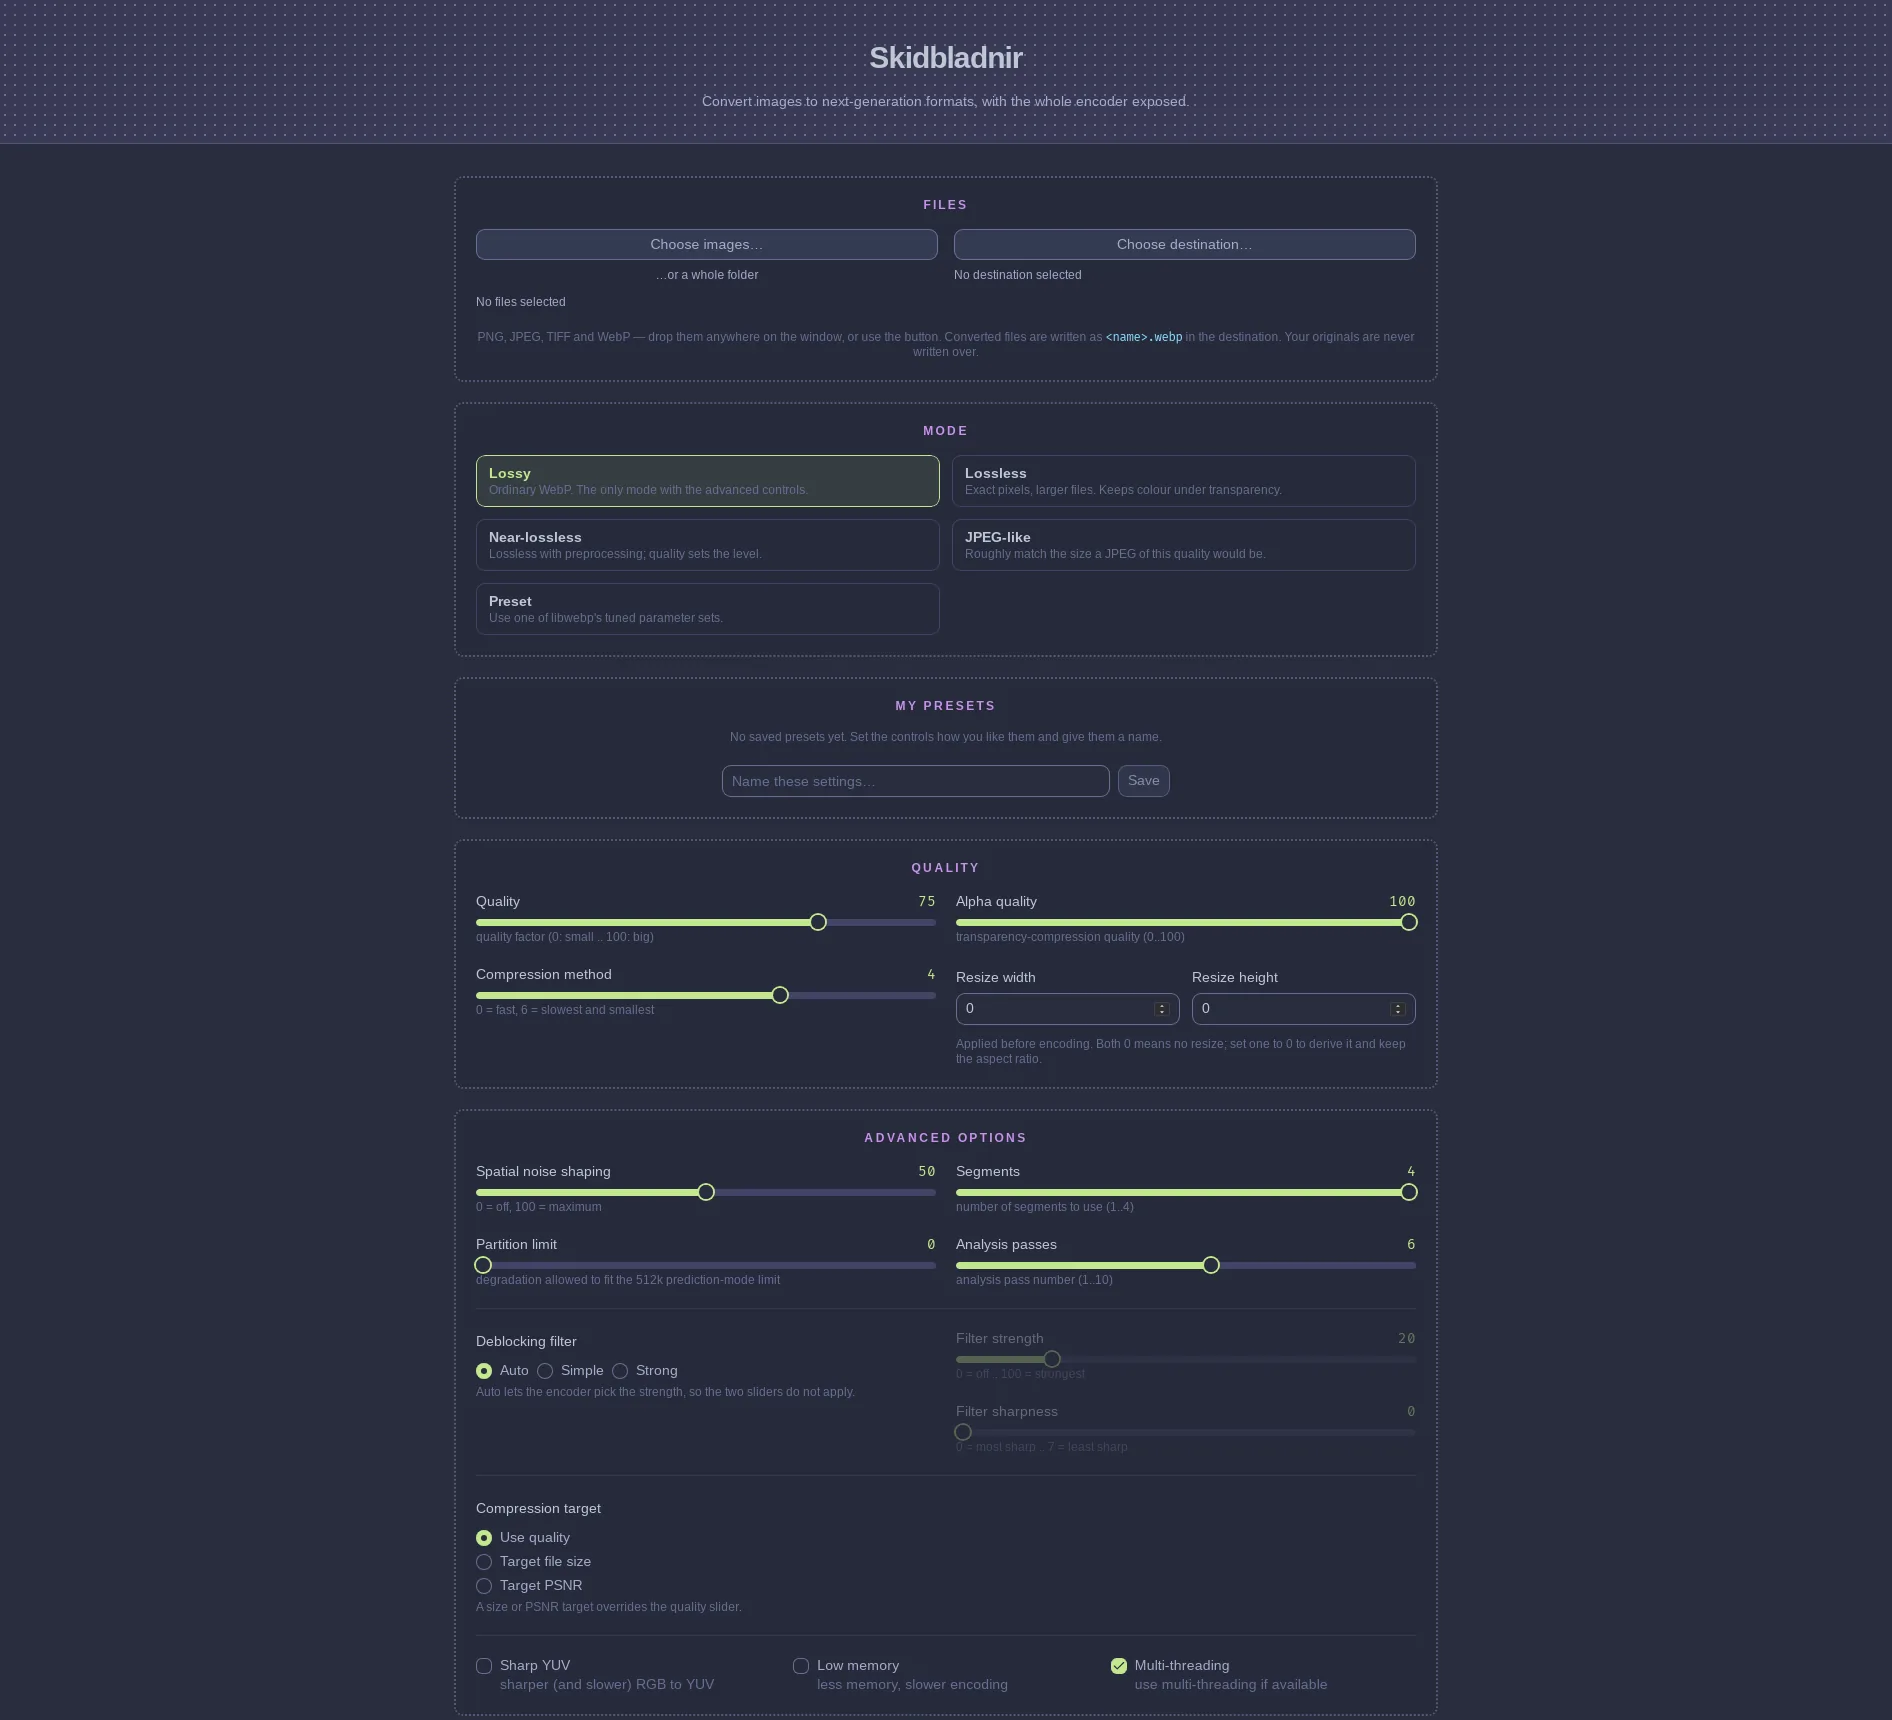
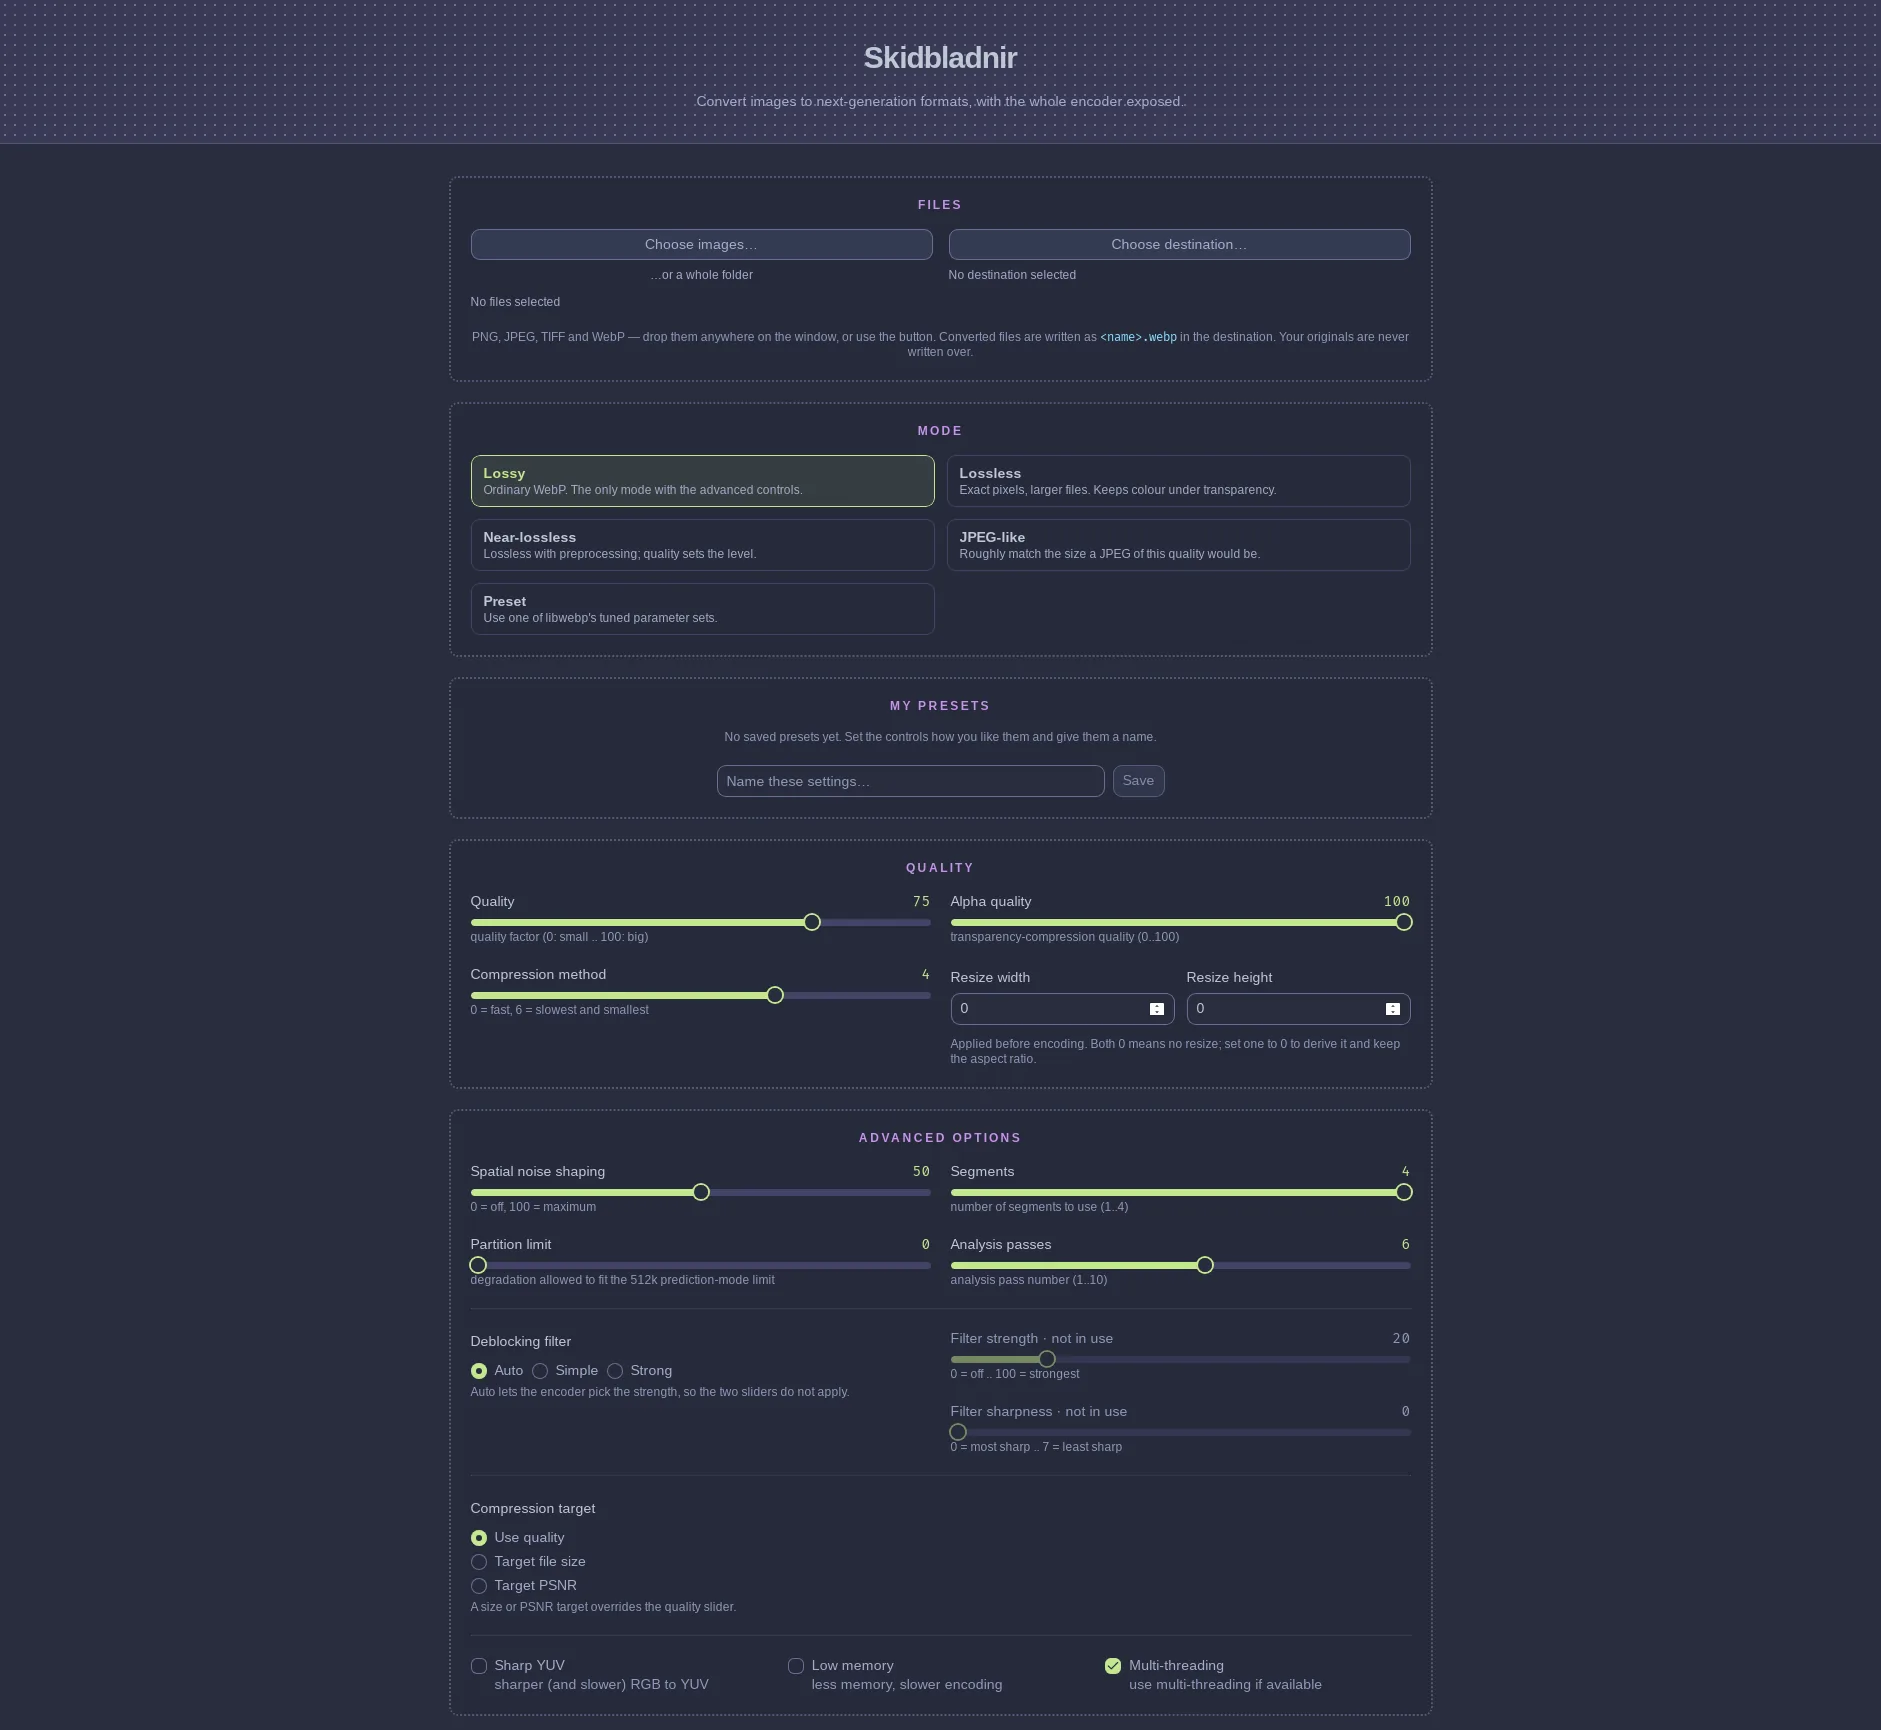
fix: clean accessibility audit — real contrast fixes found by axe-core
scripts/a11y-audit.sh injects axe-core into the live window and reports
violations. The window is now clean at the minor threshold. This found two real
defects the hand-written name check could not see:

- COLOUR CONTRAST on 25 nodes. Palenight's own comment colour #676e95 is 2.76:1
  against the background -- far under WCAG AA's 4.5:1 for text. It is kept for
  borders and the dot texture, and a new --color-palenight-muted (#9099bd,
  4.86:1) carries the muted role for anything a person actually reads. The error
  red was 4.37:1, just under, and is now #ff6b85 at 5.00:1.
- A missing lang attribute on <html>.

Six failures survived the first pass and were worth understanding rather than
waving through:

- Five were the DISABLED filter sliders. opacity-40 on the whole block took their
  labels to 2.6:1 and their help text to 2.0:1 -- unreadable, not merely
  non-conforming. Dimming now applies to the slider track alone and the label
  reads "· not in use", which is both accessible and clearer about why the
  control is inert.
- The sixth was the selected mode card, whose green tint lifts the background to
  #373d42 where the muted token falls to 3.92:1. Its description uses the
  brighter token.

The harness gained --script-file, because injecting axe-core is half a megabyte
and blows the argv limit; the payload is POSTed from a file rather than built as
a shell argument.

The README screenshot was re-captured afterwards, so it shows the corrected
[…]

diff --git a/frontend/pages/index.vue b/frontend/pages/index.vue
@@ -414,7 +414,7 @@ function basename(path: string): string {
 							{{ dropRejected }} dropped {{ dropRejected === 1 ? 'file was' : 'files were' }} not a
 							PNG, JPEG, TIFF or WebP and {{ dropRejected === 1 ? 'was' : 'were' }} skipped.
 						</p>
-						<p class="text-center text-xs text-palenight-comment">
+						<p class="text-center text-xs text-palenight-muted">
 							PNG, JPEG, TIFF and WebP — drop them anywhere on the window, or use the button.
 							Converted files are written as <code class="text-palenight-cyan">&lt;name&gt;.webp</code>
 							in the destination. Your originals are never written over.
@@ -436,7 +436,7 @@ function basename(path: string): string {
 								@click="settings.mode = mode.value"
 							>
 								<span class="block text-sm font-semibold" :class="settings.mode === mode.value ? 'text-palenight-green' : 'text-palenight-bright'">{{ mode.label }}</span>
-								<span class="block text-xs text-palenight-comment">{{ mode.help }}</span>
+								<span class="block text-xs text-palenight-fg">{{ mode.help }}</span>
 							</button>
 						</div>
 
@@ -455,12 +455,12 @@ function basename(path: string): string {
 								<button type="button" class="py-1 text-sm text-palenight-cyan hover:text-palenight-bright" @click="applyPreset(preset)">
 									{{ preset.name }}
 								</button>
-								<button type="button" class="px-2 py-1 text-palenight-comment hover:text-palenight-red" :aria-label="`Delete preset ${preset.name}`" @click="deletePreset(preset.name)">
+								<button type="button" class="px-2 py-1 text-palenight-muted hover:text-palenight-red" :aria-label="`Delete preset ${preset.name}`" @click="deletePreset(preset.name)">
 									<UIcon name="i-lucide-x" class="size-3.5" />
 								</button>
 							</div>
 						</div>
-						<p v-else class="text-center text-xs text-palenight-comment">
+						<p v-else class="text-center text-xs text-palenight-muted">
 							No saved presets yet. Set the controls how you like them and give them a name.
 						</p>
 						<div class="mx-auto flex w-full max-w-md gap-2">
@@ -488,7 +488,7 @@ function basename(path: string): string {
 									<span class="text-sm font-medium text-palenight-bright">Resize height</span>
 									<UInput v-model.number="settings.resize.height" type="number" :min="0" aria-label="Resize height in pixels" class="mt-1 w-full" />
 								</div>
-								<p class="col-span-2 text-xs text-palenight-comment">
+								<p class="col-span-2 text-xs text-palenight-muted">
 									Applied before encoding. Both 0 means no resize; set one to 0 to derive it
 									and keep the aspect ratio.
 								</p>
@@ -509,7 +509,7 @@ function basename(path: string): string {
 							<div class="text-left">
 								<span class="text-sm font-medium text-palenight-bright">Deblocking filter</span>
 								<URadioGroup v-model="settings.filter" :items="FILTER_ITEMS" orientation="horizontal" class="mt-2" />
-								<p class="mt-1 text-xs text-palenight-comment">
+								<p class="mt-1 text-xs text-palenight-muted">
 									Auto lets the encoder pick the strength, so the two sliders do not apply.
 								</p>
 							</div>
@@ -523,7 +523,7 @@ function basename(path: string): string {
 							<div class="text-left">
 								<span class="text-sm font-medium text-palenight-bright">Compression target</span>
 								<URadioGroup v-model="targetKind" :items="TARGET_ITEMS" class="mt-2" />
-								<p class="mt-1 text-xs text-palenight-comment">
+								<p class="mt-1 text-xs text-palenight-muted">
 									A size or PSNR target overrides the quality slider.
 								</p>
 							</div>
@@ -554,7 +554,7 @@ function basename(path: string): string {
 								</span>
 							</div>
 							<UProgress v-model="currentPercent" :max="100" class="mt-2" />
-							<p class="mt-1 text-xs text-palenight-comment">
+							<p class="mt-1 text-xs text-palenight-muted">
 								libwebp does not always report a final 100%, so the bar can stop short of
 								the end before a file finishes.
 							</p>
@@ -573,7 +573,7 @@ function basename(path: string): string {
 							{{ reports.length }} converted, {{ failures.length }} failed.
 						</p>
 						<table v-if="reports.length" class="w-full text-left text-sm">
-							<thead class="text-xs tracking-wide text-palenight-comment uppercase">
+							<thead class="text-xs tracking-wide text-palenight-muted uppercase">
 								<tr>
 									<th class="py-1">File</th>
 									<th class="py-1 text-right">Before</th>
@@ -607,7 +607,7 @@ function basename(path: string): string {
 		<!-- The old app's fixed dot-textured footer band, with the version readout it never
 		     had but which belongs somewhere unobtrusive. -->
 		<footer class="dot-texture pointer-events-none fixed inset-x-0 bottom-0 h-24 border-t border-palenight-line bg-palenight-panel/90">
-			<p v-if="backendVersion" class="px-5 pt-3 font-mono text-[11px] text-palenight-comment" data-selectable>
+			<p v-if="backendVersion" class="px-5 pt-3 font-mono text-[11px] text-palenight-muted" data-selectable>
 				{{ backendVersion }}
 			</p>
 		</footer>
@@ -618,7 +618,7 @@ function basename(path: string): string {
 			class="fixed right-12 bottom-12 z-[100] flex size-[70px] items-center justify-center rounded-full text-3xl shadow-lg transition-transform"
 			:class="canConvert
 				? 'cursor-pointer bg-palenight-green text-palenight-bg hover:scale-105'
-				: 'cursor-not-allowed bg-palenight-selection text-palenight-comment'"
+				: 'cursor-not-allowed bg-palenight-selection text-palenight-muted'"
 			:disabled="!canConvert"
 			:title="canConvert ? 'Convert' : 'Choose images and a destination first'"
 			:aria-label="busy ? 'Converting' : 'Convert'"

diff --git a/frontend/components/ControlSlider.vue b/frontend/components/ControlSlider.vue
@@ -14,10 +14,16 @@ defineProps<{
 </script>
 
 <template>
-	<div class="text-left" :class="disabled && 'opacity-40'">
+	<!-- A disabled control dims the SLIDER, not its text. Fading the whole block to 40%
+	     took the label and help text to 2.6:1 and 2.0:1 against the panel, which axe-core
+	     flagged and which is simply unreadable; the affordance is carried by the greyed
+	     track and the "not in use" note instead. -->
+	<div class="text-left">
 		<div class="flex items-baseline justify-between gap-3">
-			<span class="text-sm font-medium text-palenight-bright">{{ label }}</span>
-			<output class="font-mono text-sm tabular-nums text-palenight-green" aria-live="off">{{ model }}</output>
+			<span class="text-sm font-medium" :class="disabled ? 'text-palenight-muted' : 'text-palenight-bright'">
+				{{ label }}<span v-if="disabled" class="font-normal"> · not in use</span>
+			</span>
+			<output class="font-mono text-sm tabular-nums" :class="disabled ? 'text-palenight-muted' : 'text-palenight-green'" aria-live="off">{{ model }}</output>
 		</div>
 		<USlider
 			v-model="model"
@@ -28,8 +34,9 @@ defineProps<{
 			:disabled="disabled"
 			size="sm"
 			:aria-label="label"
+			:class="disabled && 'opacity-50'"
 		/>
-		<p v-if="help" class="mt-1 text-xs text-palenight-comment">
+		<p v-if="help" class="mt-1 text-xs text-palenight-muted">
 			{{ help }}
 		</p>
 	</div>

diff --git a/frontend/assets/css/main.css b/frontend/assets/css/main.css
@@ -20,10 +20,18 @@
 	--color-palenight-selection: #444267;
 	--color-palenight-line: #4e5579;
 	--color-palenight-comment: #676e95;
+	/* Palenight's own comment colour is #676e95, which is 2.76:1 against the background —
+	   well under WCAG AA's 4.5:1 for text. axe-core flagged it on 25 nodes. It is kept for
+	   non-text use (borders, the dot texture) and this lightened variant carries the same
+	   muted role for anything a person has to read: 4.86:1 on the background, 5.34:1 on a
+	   panel. */
+	--color-palenight-muted: #9099bd;
 	--color-palenight-fg: #a6accd;
 	--color-palenight-bright: #bfc7d5;
 
-	--color-palenight-red: #ff5370;
+	/* #ff5370 is Palenight's red but only 4.37:1 here, just under AA; lightened to clear
+	   it while staying the same hue. */
+	--color-palenight-red: #ff6b85;
 	--color-palenight-orange: #f78c6c;
 	--color-palenight-yellow: #ffcb6b;
 	--color-palenight-green: #c3e88d;
@@ -47,8 +55,8 @@
 	--ui-bg-accented: var(--color-palenight-selection);
 	--ui-bg-inverted: var(--color-palenight-bright);
 
-	--ui-text-dimmed: var(--color-palenight-comment);
-	--ui-text-muted: var(--color-palenight-comment);
+	--ui-text-dimmed: var(--color-palenight-muted);
+	--ui-text-muted: var(--color-palenight-muted);
 	--ui-text-toned: var(--color-palenight-fg);
 	--ui-text: var(--color-palenight-fg);
 	--ui-text-highlighted: var(--color-palenight-bright);

diff --git a/frontend/nuxt.config.ts b/frontend/nuxt.config.ts
@@ -33,6 +33,6 @@ export default defineNuxtConfig({
 		// only renames Nuxt's default `_nuxt` directory: a leading underscore is awkward to
 		// reason about in a bundled app and some packagers skip such paths.
 		buildAssetsDir: 'assets',
-		head: { title: 'Skidbladnir', meta: [{ name: 'color-scheme', content: 'dark' }] },
+		head: { title: 'Skidbladnir', htmlAttrs: { lang: 'en' }, meta: [{ name: 'color-scheme', content: 'dark' }] },
 	},
 })

diff --git a/ROADMAP.md b/ROADMAP.md
@@ -365,9 +365,23 @@ prettier subset.
       regions so progress is announced rather than only drawn; validation failures are
       `role="alert"`. A `:focus-visible` ring was added because a keyboard-navigable app
       whose focused control is invisible against a dark palette is not usable.
-- [ ] Run a real accessibility audit tool (axe-core in the WebDriver harness) rather than
-      the hand-written check used here — it covers contrast, ordering and ARIA misuse,
-      which a name-presence check does not.
+- [x] Run a real accessibility audit. `scripts/a11y-audit.sh` injects **axe-core** into the
+      live window and reports violations; the window is now **clean at the `minor`
+      threshold**. It found two things the hand-written name check could not:
+      - **Colour contrast on 25 nodes.** Palenight's own comment colour `#676e95` is
+        2.76:1 against the background, far under WCAG AA's 4.5:1. It is kept for borders
+        and the dot texture, and a new `--color-palenight-muted` (`#9099bd`, 4.86:1) now
+        carries the same muted role for anything a person reads. The error red was
+        4.37:1 — just under — and was lightened to `#ff6b85` (5.00:1).
+      - **A missing `lang` attribute** on `<html>`.
+      Six failures survived the first fix and were worth understanding rather than
+      suppressing: five were the *disabled* filter sliders, where `opacity-40` on the whole
+      block took their labels to 2.6:1 and their help text to 2.0:1. Dimming now applies to
+      the slider track alone and the label reads "· not in use", which is both accessible
+      and clearer. The sixth was the selected mode card, whose tinted background lifts to
+      `#373d42` where the muted token is 3.92:1; its description uses the brighter token.
+- [ ] Run `scripts/a11y-audit.sh` in CI alongside the smoke test — same runner setup, and
+      it needs `frontend/node_modules` present for axe-core.
 
 ## Phase 5 — Tri-platform packaging and release
 
